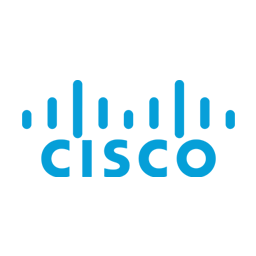
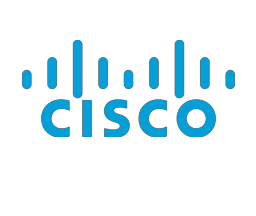
working with c

Changed region(s): [[0.1562, 0.1667, 0.8438, 0.6944], [0.875, 0.3056, 0.9375, 0.5278], [0.0625, 0.3056, 0.125, 0.5278]]

diff --git a/chipReact/src/pages/Home.js b/chipReact/src/pages/Home.js
@@ -15,13 +15,13 @@ const Intro = () => {
                     </div>
                 </div>
                 
-                <div className="outside-img">
+                {/* puts on bottom */}
+                <div className="outside-img"> 
+                    {/* puts side by side */}
                     <div className="image-container">
-                        <img src={chip2} alt="chip logo 2" className="logoTitle" />
 
-                        <div className="slider">
-                            <LogoSlider />
-                        </div>
+                        <img src={chip2} alt="chip logo 2" className="logoTitle" />
+                        <LogoSlider />
                     </div>
                 </div>
             </div>

diff --git a/chipReact/src/pages/LogoSlider.js b/chipReact/src/pages/LogoSlider.js
@@ -13,12 +13,13 @@ const images = [
 ];
 
 export default function LogoSlider () {
+
     return (
-      <div id="force">
-        <Carousel showStatus={false} showThumbs={false} showIndicators={false} >
+      <div className="slider">
+        <Carousel showStatus={false} showThumbs={false} showIndicators={false} width={170}>
           {images.map((imageSrc, index) => (
             <div key={index}>
-              <img src={imageSrc} alt={`Image ${index + 1}`} />
+              <img src={imageSrc} alt={`Image ${index + 1}`} id="force"/>
             </div>
           ))}
         </Carousel>

diff --git a/chipReact/src/pages/Home.css b/chipReact/src/pages/Home.css
@@ -81,13 +81,9 @@ html, body {
     width: 100%;
 }
 
-#force {
-    object-fit:contain;
-}
-
 .logoTitle {
-    width: 50%;
-    height: 70%;
+    width: 16vw;
+    height: 10vw;
     margin: 8px;
     margin-right: 24px;
     border-radius: 8px;
@@ -95,12 +91,17 @@ html, body {
 }
 
 .slider {
-    width: 50%;
-    height: 70%;
+    width: 16vw;
+    height: 10vw;
     margin: 8px;
     border-radius: 8px;
     background-color: var(--limestone);
+    /* object-fit: contain; */
 }
+
+#force {
+    object-fit: cover;
+} 
 
 .page {
     position: relative;
